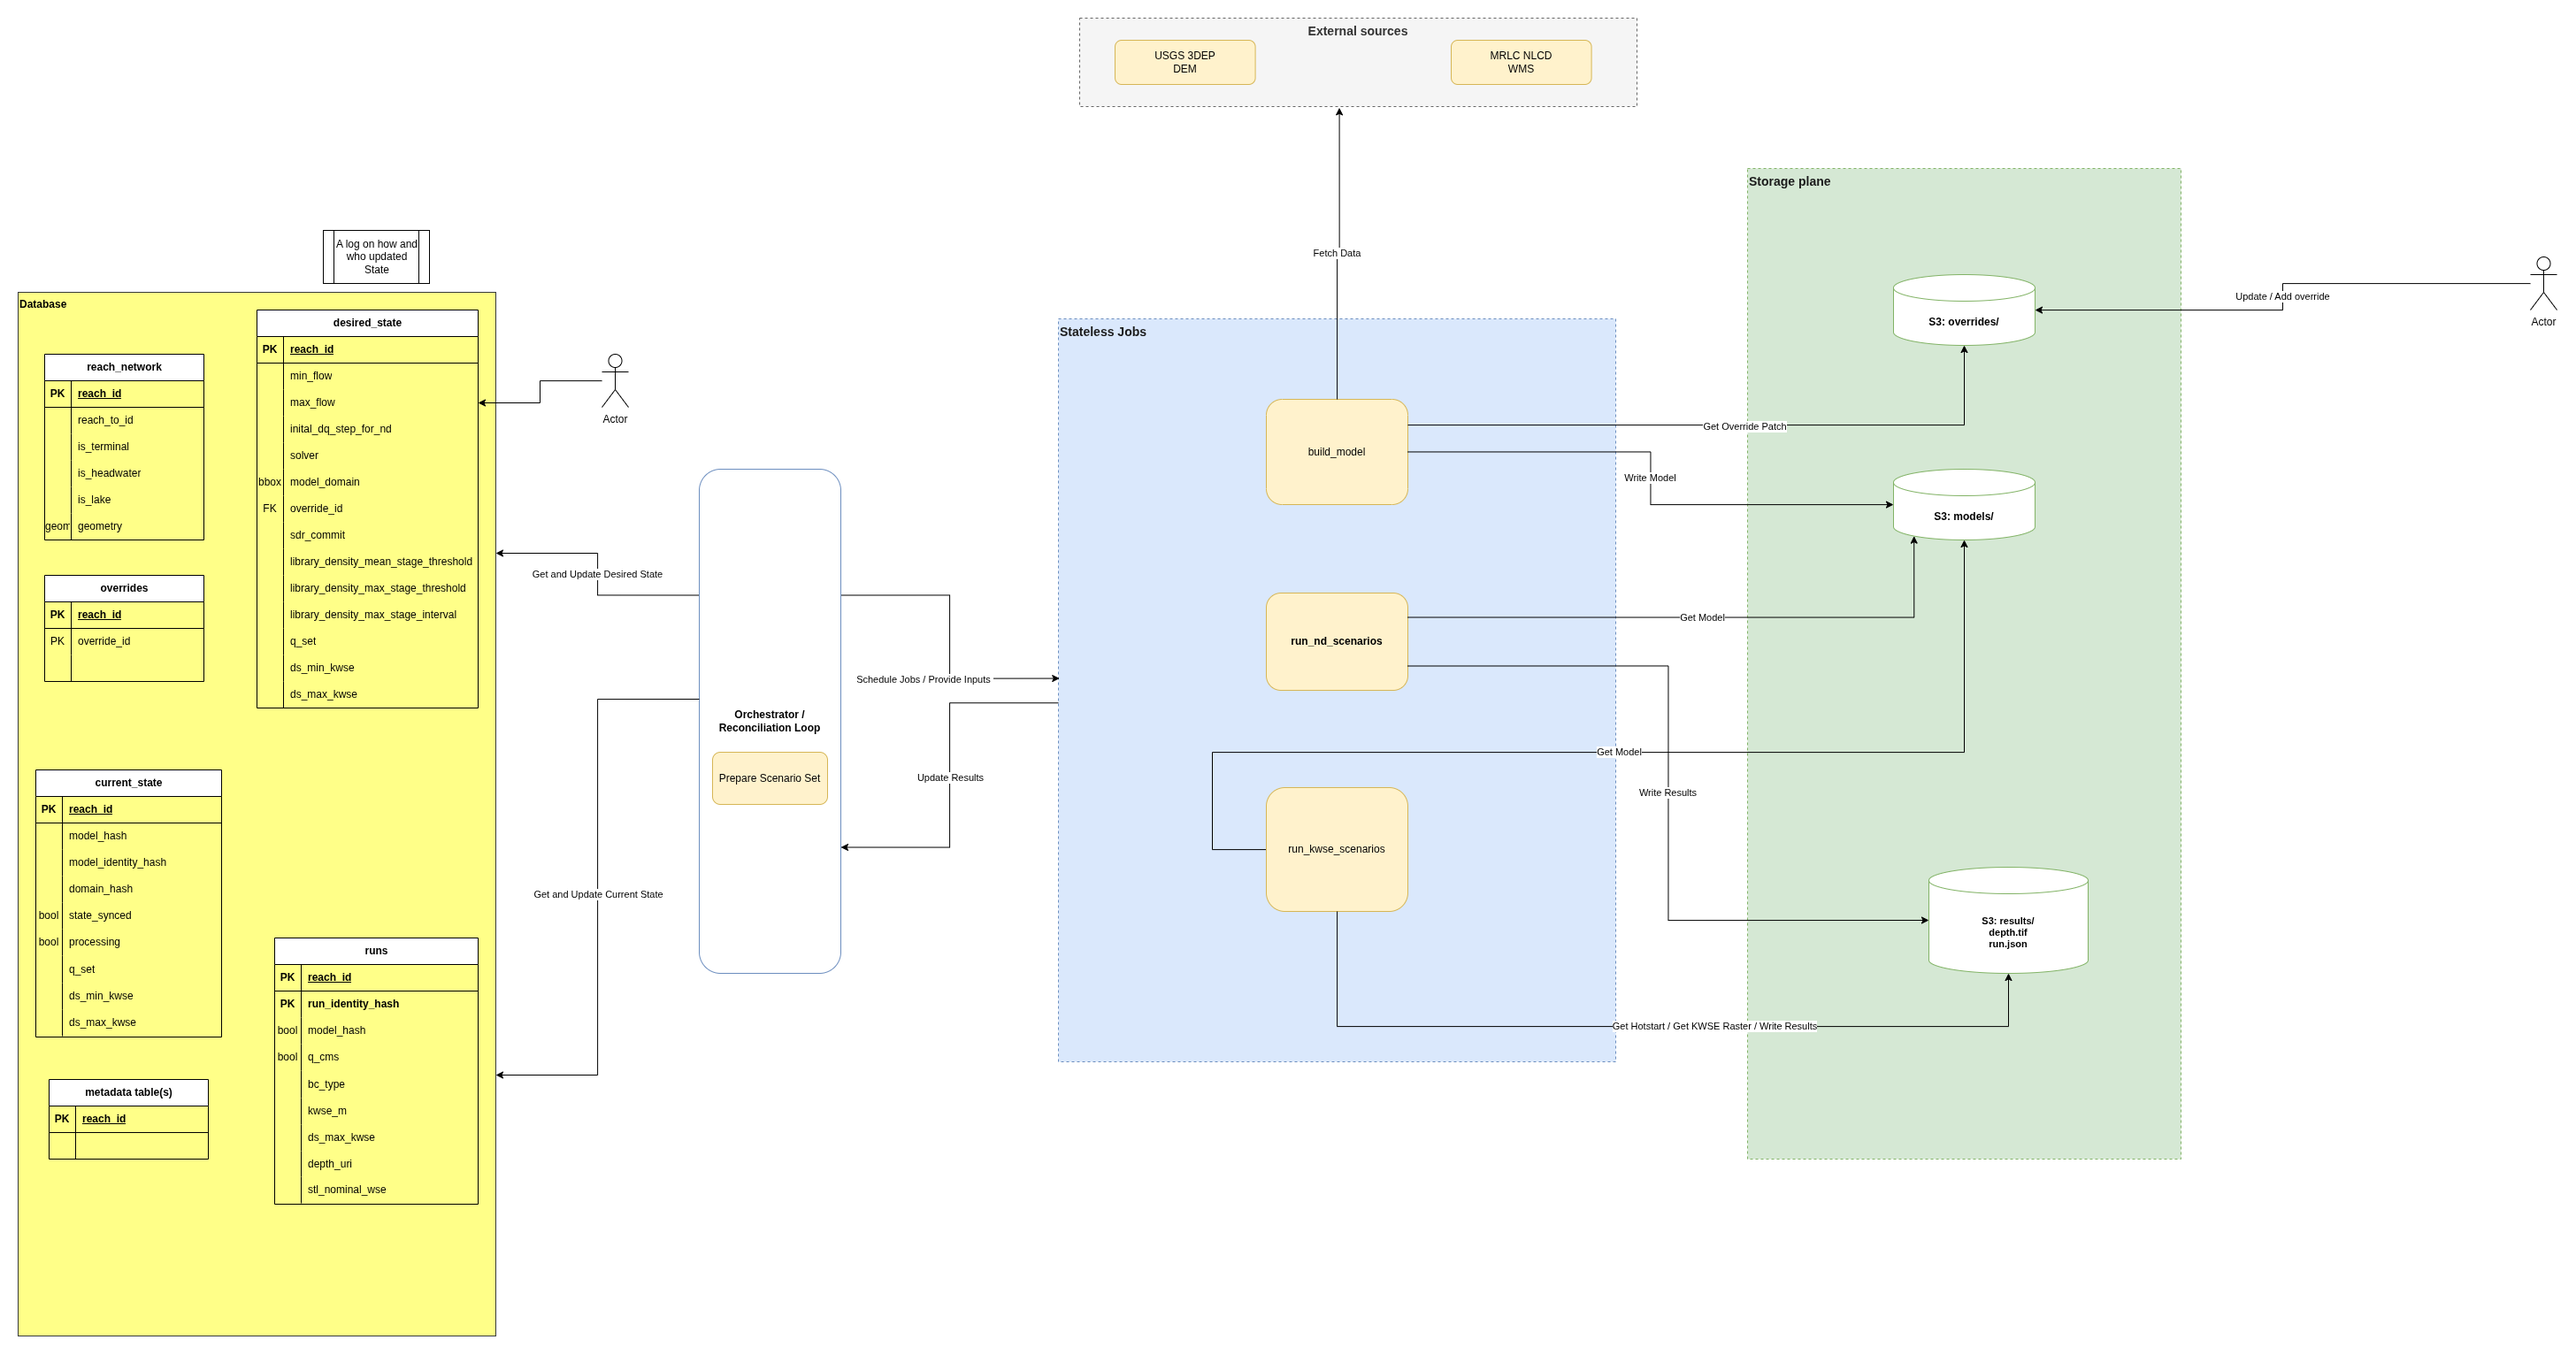
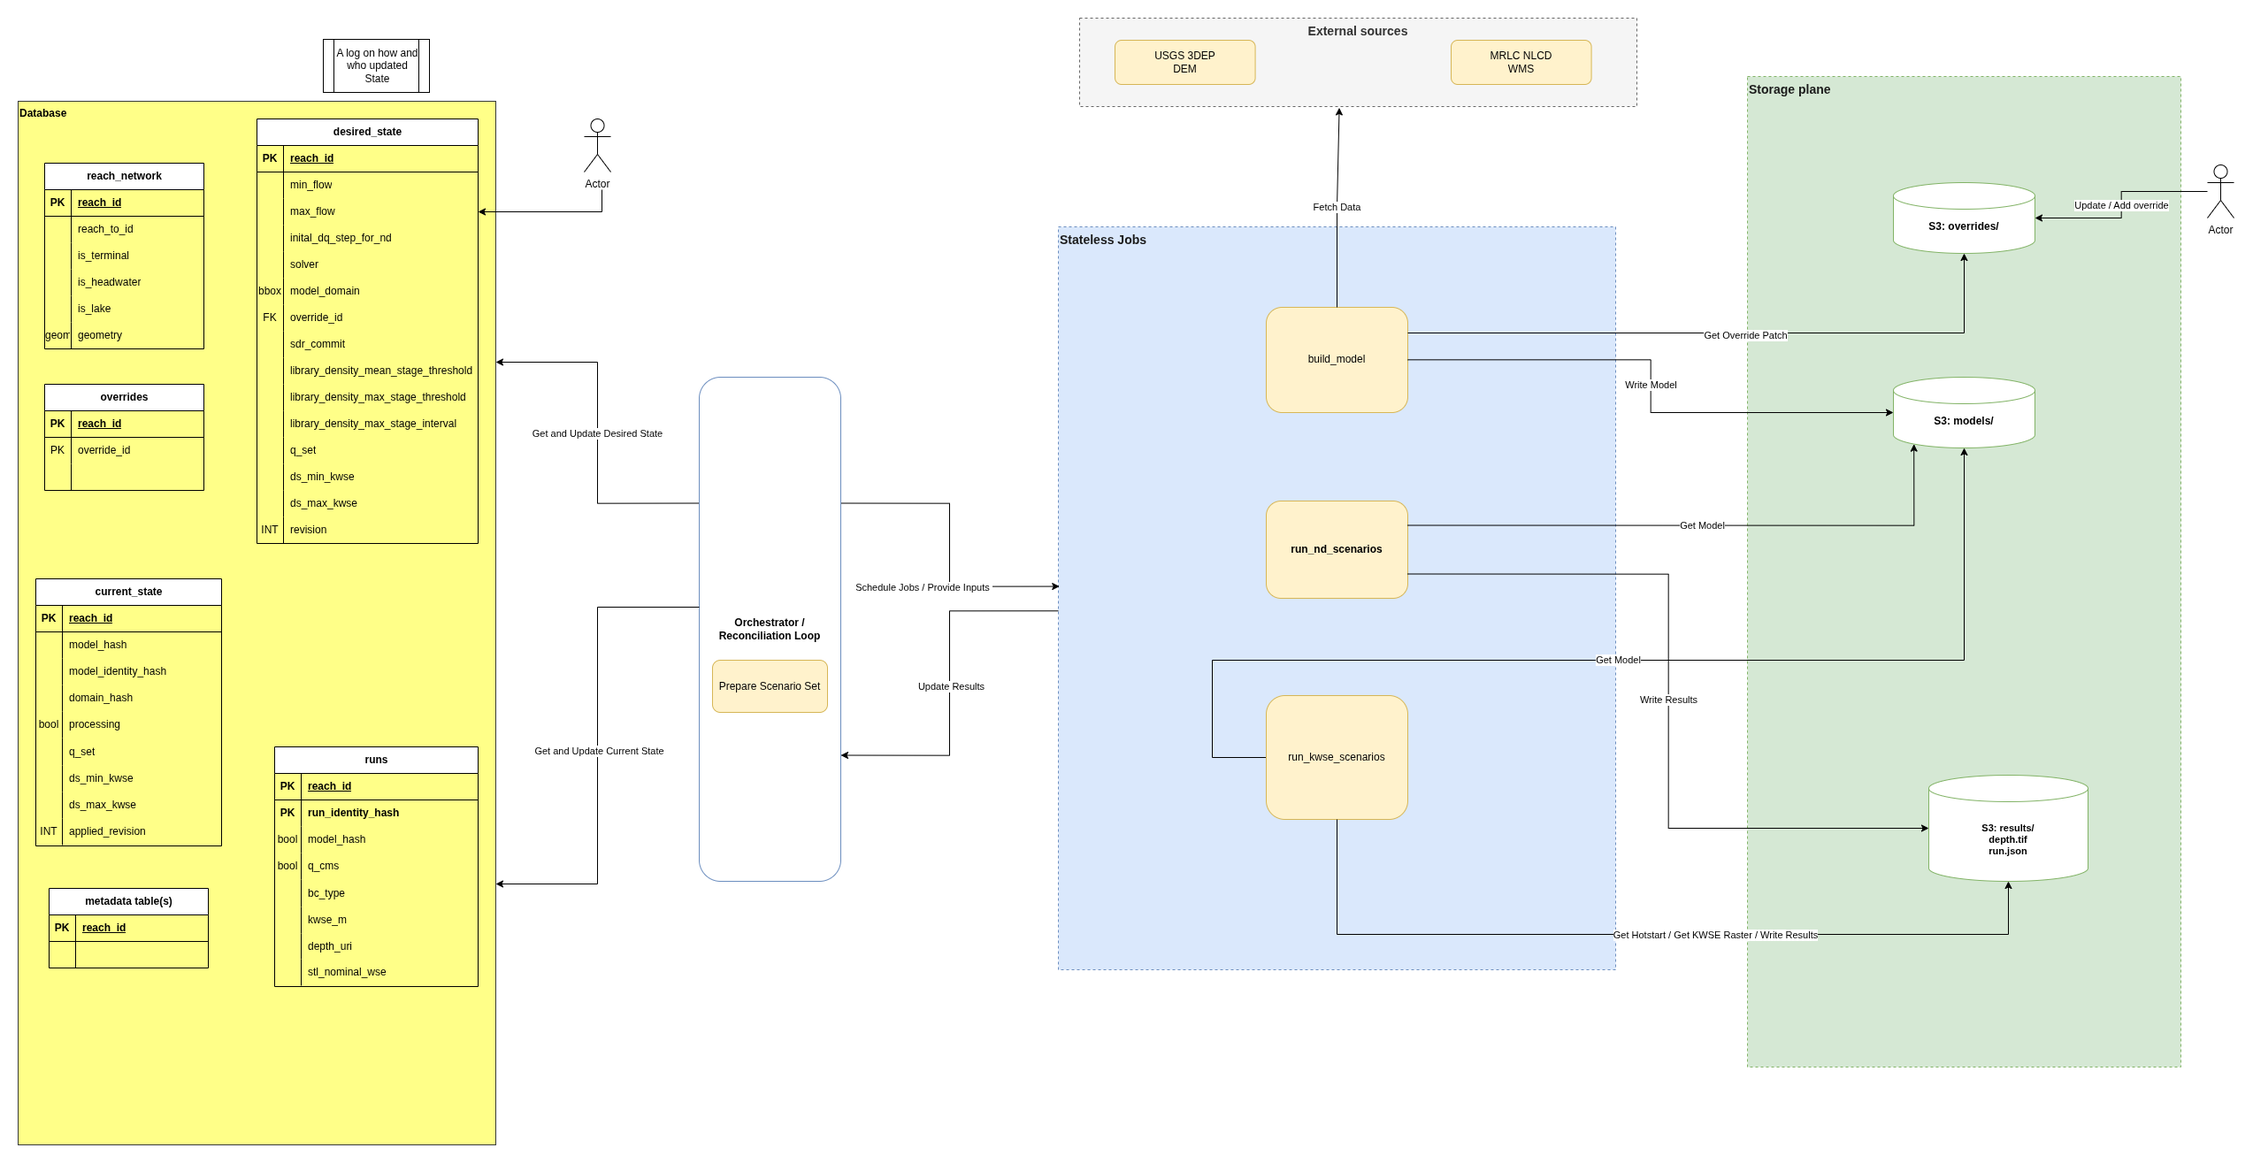
Add revision in DB schema

diff --git a/system-design/guide.md b/system-design/guide.md
@@ -8,16 +8,17 @@
 
 ## Key Design Principles
 
-- The System is designed with database as the brain plus pipeline as a reconciliation loop
-- Pipeline has main goal of reconciling current state towards desired state
+- The System is designed with database as the brain plus orchestrator as a reconciliation loop
+- Orchestrator has main goal of reconciling current state towards desired state
+- The reconciliation loop is borrowed from Kubernetes; it makes the system self-healing. A controller watches S3 and forms the current state; when it sees a difference between current_state and desired_state it acts, then writes what it observed back into current_state, then watches again. The loop never stops.
 - Jobs are stateless, they intake JSON, output JSON. They write to S3
 - Jobs do not interact with Database
-- Pipeline is the sole writer/editor to deployed system, no external updates are allowed
+- Orchestrator is the sole writer/editor to deployed system, no external updates are allowed
 - User updates come through override system
 - Deployed system does not entertain testing, testing should be carried out separately and desired state must be updated via overrides or updates to desired state table
 - Inputs are versioned
 - Outputs are immutable and stored at addressed paths (A rerun with same inputs will overwrite the old content)
-- As pipeline try to bridge gap between current state and desired state it skips what already exist and runs only the gap between two states. This is done through addressed paths.
+- As orchestrator try to bridge gap between current state and desired state it skips what already exist and runs only the gap between two states. This is done through addressed paths.
 - If the desired state changed and existing outputs become stale, they are handled by S3 lifecycle policies
 - Self documenting paths
 - Operational Unit is per reach folder. Someone can `aws s3 sync` one reach to a laptop and have everything to inspect or rerun
@@ -36,6 +37,7 @@
 - Desired state = input to system = authored intent
 - Current state = what's actually been achieved = current state of the system
 - Runs = the per-run record (ledger)
+- Some desired_state fields are nullable — NULL means "use the default source", a value means it is authored. current_state always holds the effective value. This separation makes it clear that there is one place to author anything, one place place to read what's live.
 - Rollback = revert desired state; content-addressing reuses prior outputs if not yet aged out, else will be recomputed
 
 ![alt text](<diagrams-system-landscape.png>)
@@ -105,6 +107,6 @@ s3://twod-fim/
     Possibly by waiting for `state_synced=true`
 - Do we want more granular control over desired kwse state
 - How do we track nominal KWSE rasters
-- Does PSQL trigger Pipeline or Pipeline watches PSQL
+- Does PSQL trigger orchestrator or orchestrator watches PSQL
 - How do AWS Batch runs DIND
 - Network traversal order
